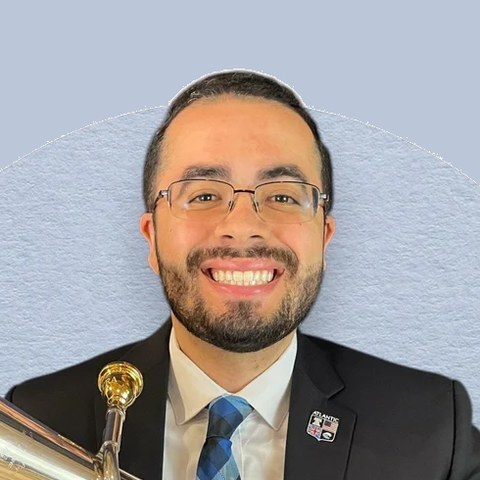
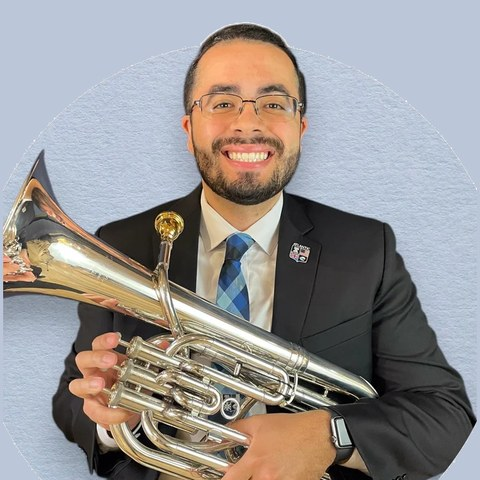
Match LinkedIn: wider headshot, add certs and skills
Claude-Session: https://claude.ai/code/session_01GaN5E2wmgQZaQDYuim9GJr

diff --git a/src/app/page.tsx b/src/app/page.tsx
@@ -32,14 +32,14 @@ export default function Home() {
   return (
     <main className="mx-auto grid w-full max-w-[1440px] gap-10 lg:grid-cols-[380px_1fr] lg:gap-14 lg:pr-10">
       {/* Profile sidebar */}
-      <aside className="bg-muted px-6 py-10 sm:px-10 lg:sticky lg:top-0 lg:h-svh lg:overflow-y-auto lg:py-8">
+      <aside className="bg-muted px-6 py-10 sm:px-10 lg:sticky lg:top-0 lg:h-svh lg:overflow-y-auto lg:py-6">
         {profile.photo ? (
           <Image
             src={profile.photo}
             alt={profile.name}
-            width={96}
-            height={96}
-            className="size-24 rounded-full object-cover"
+            width={112}
+            height={112}
+            className="size-28 rounded-full object-cover"
             priority
           />
         ) : (

diff --git a/src/lib/content.ts b/src/lib/content.ts
@@ -29,7 +29,9 @@ export const skills = [
   "NumPy",
   "Tableau",
   "Excel",
+  "Google Sheets",
   "Git",
+  "AI tools",
   "Data storytelling",
 ];
 
@@ -113,6 +115,16 @@ export const education = [
     title: "Google Data Analytics Professional Certificate",
     detail:
       "Data cleaning, analysis, and visualization with SQL, spreadsheets, Tableau, and R, finished with a capstone case study.",
+  },
+  {
+    year: "TODO: year",
+    title: "Google AI Essentials",
+    detail: "Using generative AI tools to speed up research, writing, and analysis work.",
+  },
+  {
+    year: "TODO: year",
+    title: "Databricks Lakehouse Fundamentals",
+    detail: "Core concepts of the Databricks Lakehouse platform for data engineering and analytics.",
   },
   {
     year: "TODO: year",
